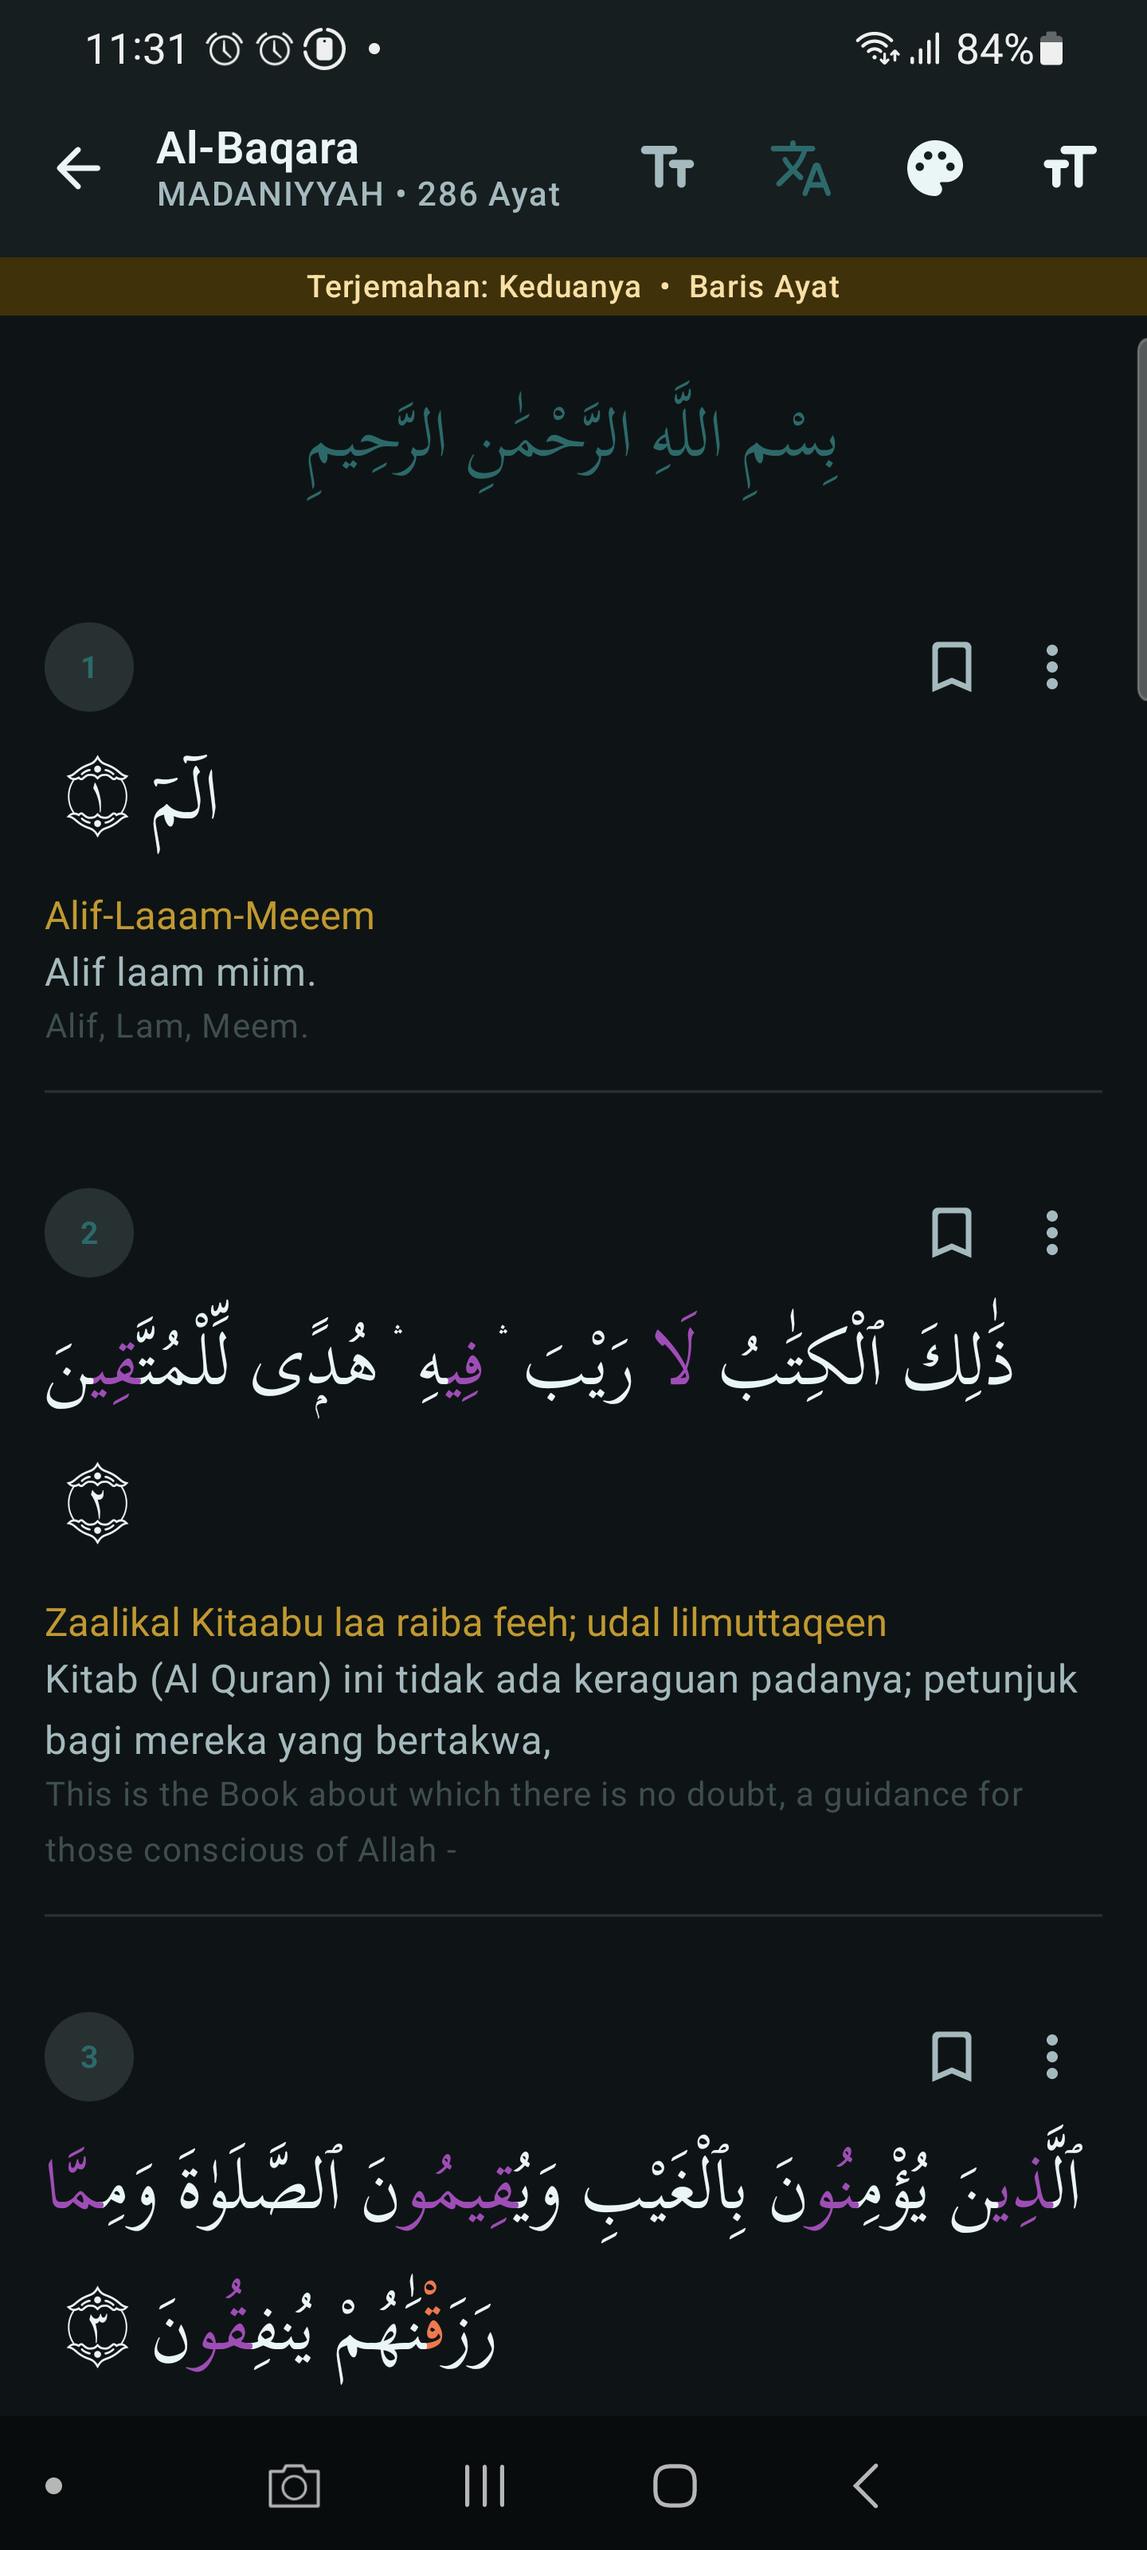
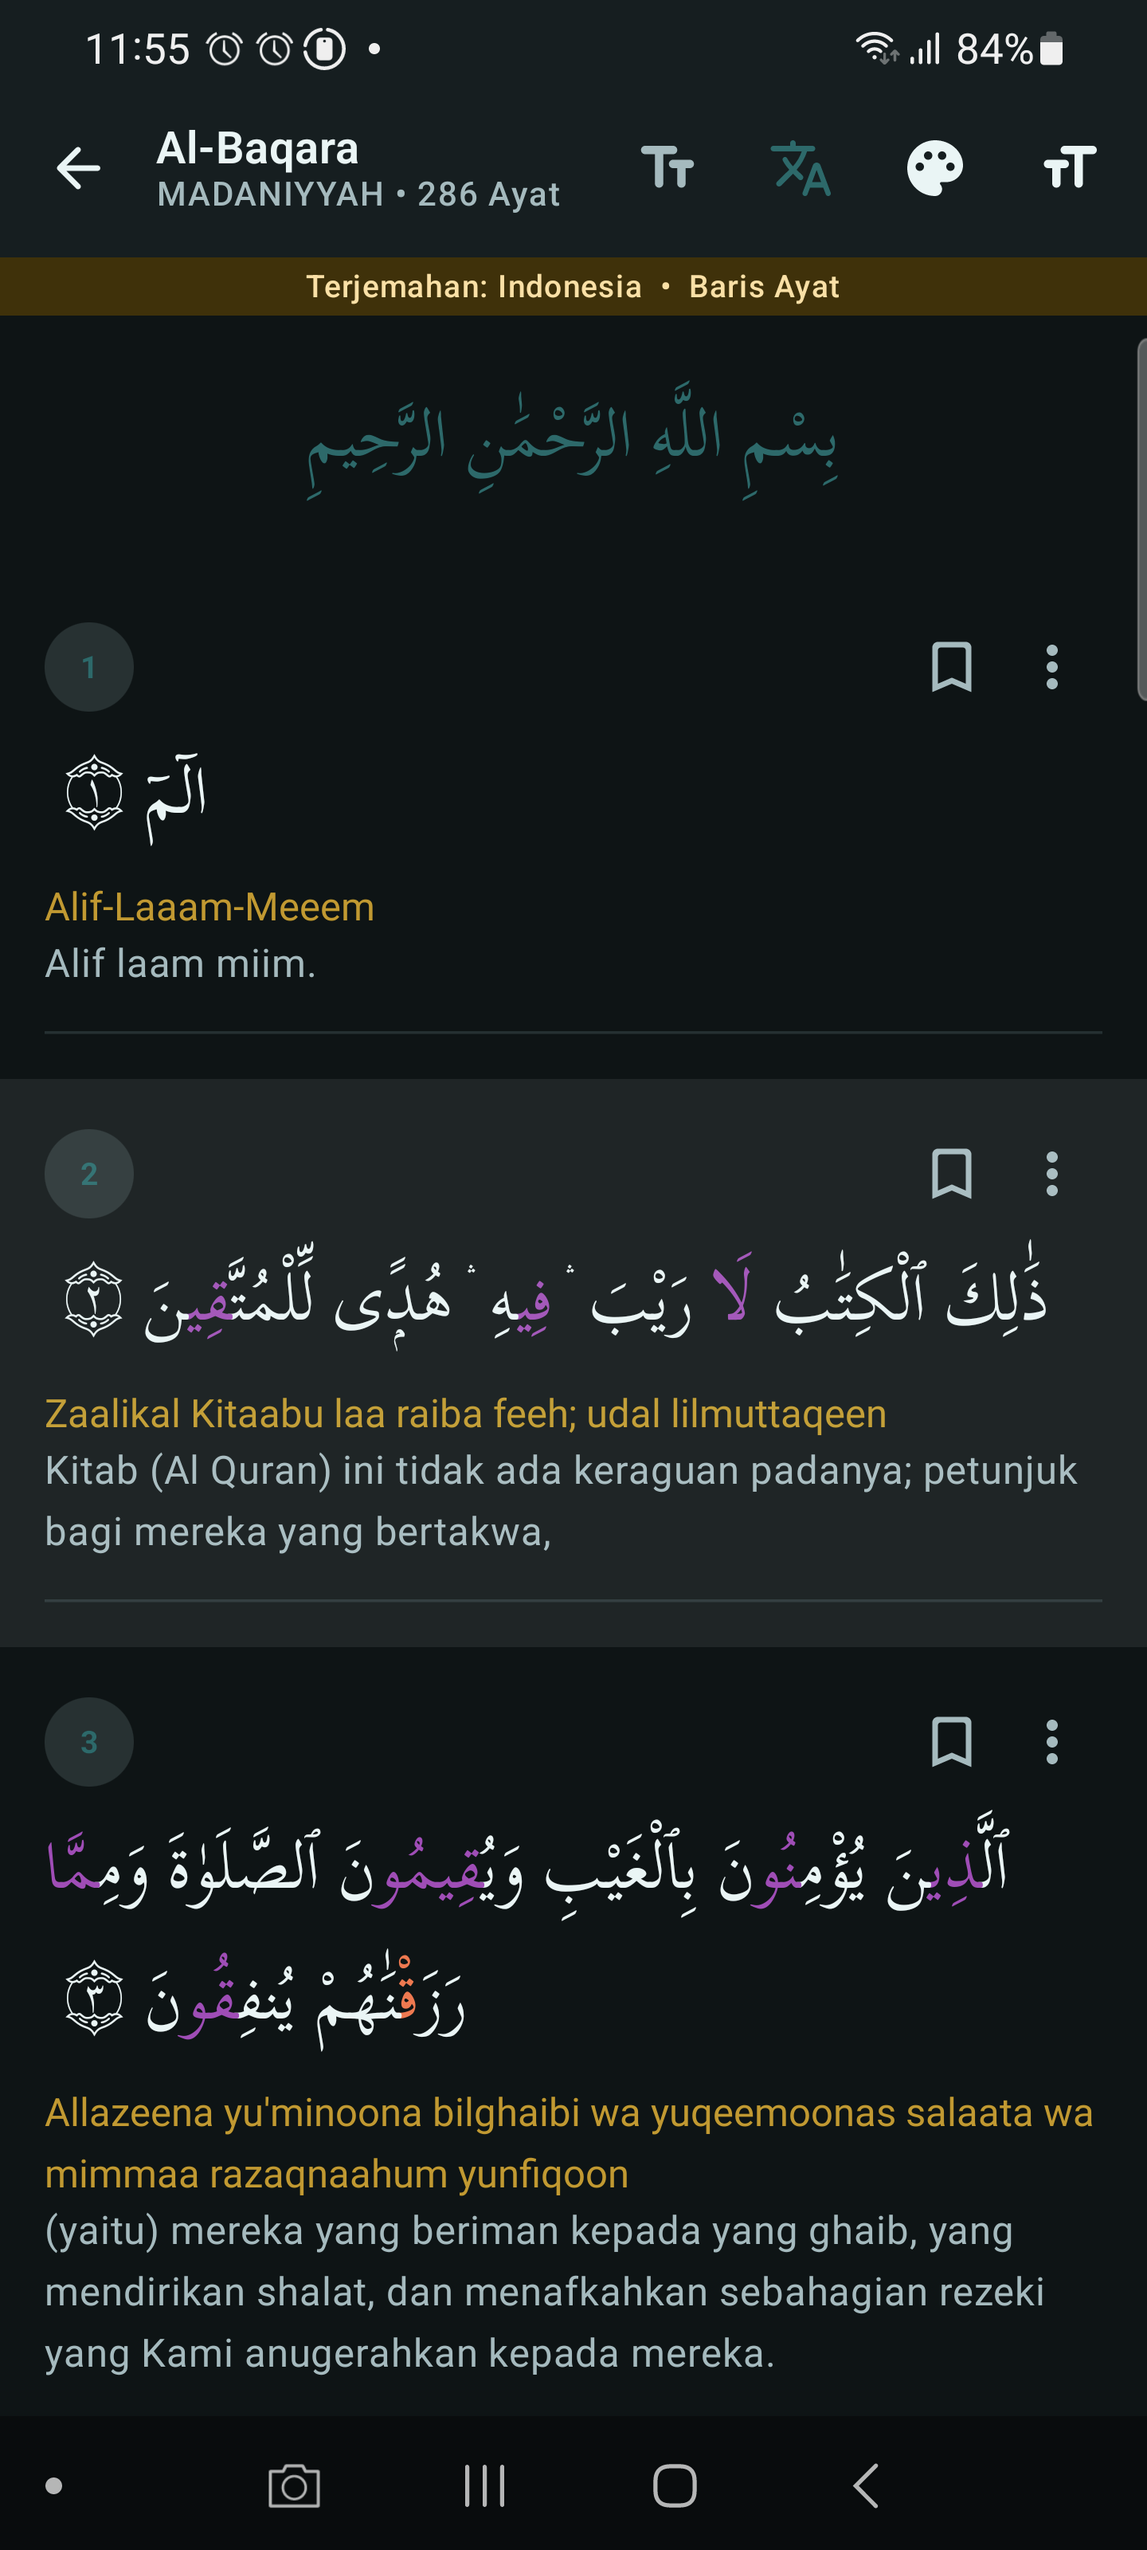
feat(tahsin): add audio pronunciation and ayah reader link to lesson detail, update surah mapper and visual documentation

diff --git a/app/src/main/java/com/quranplus/app/features/tahsin/presentation/LessonDetailScreen.kt b/app/src/main/java/com/quranplus/app/features/tahsin/presentation/LessonDetailScreen.kt
@@ -1,6 +1,8 @@
 package com.quranplus.app.features.tahsin.presentation
 
+import android.widget.Toast
 import androidx.compose.foundation.background
+import androidx.compose.foundation.layout.Arrangement
 import androidx.compose.foundation.layout.Box
 import androidx.compose.foundation.layout.Column
 import androidx.compose.foundation.layout.Row
@@ -15,13 +17,19 @@ import androidx.compose.foundation.rememberScrollState
 import androidx.compose.foundation.shape.CircleShape
 import androidx.compose.foundation.verticalScroll
 import androidx.compose.material.icons.Icons
+import androidx.compose.material.icons.automirrored.rounded.MenuBook
+import androidx.compose.material.icons.automirrored.rounded.VolumeUp
 import androidx.compose.material.icons.rounded.Check
 import androidx.compose.material.icons.rounded.CheckCircle
+import androidx.compose.material.icons.rounded.Pause
+import androidx.compose.material.icons.rounded.PlayArrow
 import androidx.compose.material3.Card
 import androidx.compose.material3.CardDefaults
 import androidx.compose.material3.CircularProgressIndicator
+import androidx.compose.material3.FilledTonalButton
 import androidx.compose.material3.Icon
 import androidx.compose.material3.MaterialTheme
+import androidx.compose.material3.OutlinedButton
 import androidx.compose.material3.Scaffold
 import androidx.compose.material3.Text
 import androidx.compose.runtime.Composable
@@ -31,25 +39,33 @@ import androidx.compose.runtime.getValue
 import androidx.compose.ui.Alignment
 import androidx.compose.ui.Modifier
 import androidx.compose.ui.draw.clip
+import androidx.compose.ui.hapticfeedback.HapticFeedbackType
+import androidx.compose.ui.platform.LocalContext
+import androidx.compose.ui.platform.LocalHapticFeedback
 import androidx.compose.ui.text.font.FontWeight
 import androidx.compose.ui.text.style.TextAlign
 import androidx.compose.ui.unit.dp
 import androidx.compose.ui.unit.sp
-import androidx.compose.ui.hapticfeedback.HapticFeedbackType
-import androidx.compose.ui.platform.LocalHapticFeedback
+import com.quranplus.app.core.audio.AudioPlayerManager
+import com.quranplus.app.core.audio.PlaybackState
 import com.quranplus.app.core.ui.components.AppPrimaryButton
 import com.quranplus.app.core.ui.components.AppSecondaryButton
 import com.quranplus.app.core.ui.components.AppTopBar
 import com.quranplus.app.core.ui.theme.Spacing
 import com.quranplus.app.core.ui.theme.getQuranArabicStyle
+import com.quranplus.app.core.utils.SurahMapper
 
 @Composable
 fun LessonDetailScreen(
     lessonId: Int,
     viewModel: TahsinViewModel,
+    audioPlayerManager: AudioPlayerManager? = null,
+    onNavigateToAyah: ((Int, Int) -> Unit)? = null,
     onBackClick: () -> Unit
 ) {
     val lesson by viewModel.selectedLesson.collectAsState()
+    val context = LocalContext.current
+    val playbackState = audioPlayerManager?.playbackState?.collectAsState()?.value
 
     LaunchedEffect(lessonId) {
         viewModel.loadLessonDetail(lessonId)
@@ -69,6 +85,8 @@ fun LessonDetailScreen(
             }
         } else {
             val item = lesson!!
+            val parsedRef = SurahMapper.parseAyahReference(item.exampleAyahRef)
+
             Column(
                 modifier = Modifier
                     .fillMaxSize()
@@ -176,12 +194,24 @@ fun LessonDetailScreen(
                         shape = MaterialTheme.shapes.medium
                     ) {
                         Column(modifier = Modifier.padding(Spacing.md)) {
-                            Text(
-                                text = "Contoh Ayat Al-Qur'an (${item.exampleAyahRef}):",
-                                style = MaterialTheme.typography.titleSmall,
-                                fontWeight = FontWeight.Bold,
-                                color = MaterialTheme.colorScheme.secondary
-                            )
+                            Row(
+                                modifier = Modifier.fillMaxWidth(),
+                                horizontalArrangement = Arrangement.SpaceBetween,
+                                verticalAlignment = Alignment.CenterVertically
+                            ) {
+                                Text(
+                                    text = "Contoh Ayat Al-Qur'an:",
+                                    style = MaterialTheme.typography.titleSmall,
+                                    fontWeight = FontWeight.Bold,
+                                    color = MaterialTheme.colorScheme.secondary
+                                )
+                                Text(
+                                    text = item.exampleAyahRef.substringBefore("(").trim(),
+                                    style = MaterialTheme.typography.labelSmall,
+                                    fontWeight = FontWeight.SemiBold,
+                                    color = MaterialTheme.colorScheme.primary
+                                )
+                            }
                             Spacer(modifier = Modifier.height(Spacing.sm))
                             Text(
                                 text = item.exampleAyahText,
@@ -189,6 +219,60 @@ fun LessonDetailScreen(
                                 modifier = Modifier.fillMaxWidth(),
                                 textAlign = TextAlign.End
                             )
+
+                            // Interactive Audio & Navigation Bar for Example Ayah
+                            if (parsedRef != null && audioPlayerManager != null) {
+                                val (surahRef, ayahNum) = parsedRef
+                                val isCurrentlyPlaying = playbackState is PlaybackState.Playing &&
+                                        playbackState.surahNumber == surahRef.number &&
+                                        playbackState.ayahNumber == ayahNum
+
+                                Spacer(modifier = Modifier.height(Spacing.md))
+                                Row(
+                                    modifier = Modifier.fillMaxWidth(),
+                                    horizontalArrangement = Arrangement.spacedBy(Spacing.sm)
+                                ) {
+                                    FilledTonalButton(
+                                        onClick = {
+                                            if (isCurrentlyPlaying) {
+                                                audioPlayerManager.togglePlayPause()
+                                            } else {
+                                                audioPlayerManager.playAyah(
+                                                    surahNumber = surahRef.number,
+                                                    surahName = surahRef.latinName,
+                                                    ayahNumber = ayahNum,
+                                                    totalAyahsInSurah = surahRef.ayahCount
+                                                )
+                                                Toast.makeText(context, "Memutar QS. ${surahRef.latinName}:$ayahNum", Toast.LENGTH_SHORT).show()
+                                            }
+                                        },
+                                        modifier = Modifier.weight(1f)
+                                    ) {
+                                        Icon(
+                                            imageVector = if (isCurrentlyPlaying) Icons.Rounded.Pause else Icons.AutoMirrored.Rounded.VolumeUp,
+                                            contentDescription = null,
+                                            modifier = Modifier.size(18.dp)
+                                        )
+                                        Spacer(modifier = Modifier.width(Spacing.xs))
+                                        Text(if (isCurrentlyPlaying) "Jeda" else "Dengarkan", fontSize = 13.sp)
+                                    }
+
+                                    if (onNavigateToAyah != null) {
+                                        OutlinedButton(
+                                            onClick = { onNavigateToAyah(surahRef.number, ayahNum) },
+                                            modifier = Modifier.weight(1f)
+                                        ) {
+                                            Icon(
+                                                imageVector = Icons.AutoMirrored.Rounded.MenuBook,
+                                                contentDescription = null,
+                                                modifier = Modifier.size(18.dp)
+                                            )
+                                            Spacer(modifier = Modifier.width(Spacing.xs))
+                                            Text("Lihat Surah", fontSize = 13.sp)
+                                        }
+                                    }
+                                }
+                            }
                         }
                     }
                 }

diff --git a/app/src/main/java/com/quranplus/app/core/utils/SurahMapper.kt b/app/src/main/java/com/quranplus/app/core/utils/SurahMapper.kt
@@ -1,0 +1,169 @@
+package com.quranplus.app.core.utils
+
+/**
+ * Surah metadata mapper and lookup helper
+ */
+object SurahMapper {
+
+    data class SurahRef(
+        val number: Int,
+        val latinName: String,
+        val ayahCount: Int
+    )
+
+    private val SURAHS = listOf(
+        SurahRef(1, "Al-Fatihah", 7),
+        SurahRef(2, "Al-Baqarah", 286),
+        SurahRef(3, "Ali 'Imran", 200),
+        SurahRef(4, "An-Nisa'", 176),
+        SurahRef(5, "Al-Ma'idah", 120),
+        SurahRef(6, "Al-An'am", 165),
+        SurahRef(7, "Al-A'raf", 206),
+        SurahRef(8, "Al-Anfal", 75),
+        SurahRef(9, "At-Taubah", 129),
+        SurahRef(10, "Yunus", 109),
+        SurahRef(11, "Hud", 123),
+        SurahRef(12, "Yusuf", 111),
+        SurahRef(13, "Ar-Ra'd", 43),
+        SurahRef(14, "Ibrahim", 52),
+        SurahRef(15, "Al-Hijr", 99),
+        SurahRef(16, "An-Nahl", 128),
+        SurahRef(17, "Al-Isra'", 111),
+        SurahRef(18, "Al-Kahf", 110),
+        SurahRef(19, "Maryam", 98),
+        SurahRef(20, "Taha", 135),
+        SurahRef(21, "Al-Anbiya'", 112),
+        SurahRef(22, "Al-Hajj", 78),
+        SurahRef(23, "Al-Mu'minun", 118),
+        SurahRef(24, "An-Nur", 64),
+        SurahRef(25, "Al-Furqan", 77),
+        SurahRef(26, "Asy-Syu'ara'", 227),
+        SurahRef(27, "An-Naml", 93),
+        SurahRef(28, "Al-Qasas", 88),
+        SurahRef(29, "Al-'Ankabut", 69),
+        SurahRef(30, "Ar-Rum", 60),
+        SurahRef(31, "Luqman", 34),
+        SurahRef(32, "As-Sajdah", 30),
+        SurahRef(33, "Al-Ahzab", 73),
+        SurahRef(34, "Saba'", 54),
+        SurahRef(35, "Fatir", 45),
+        SurahRef(36, "Yasin", 83),
+        SurahRef(37, "As-Saffat", 182),
+        SurahRef(38, "Sad", 88),
+        SurahRef(39, "Az-Zumar", 75),
+        SurahRef(40, "Ghafir", 85),
+        SurahRef(41, "Fussilat", 54),
+        SurahRef(42, "Asy-Syura", 53),
+        SurahRef(43, "Az-Zukhruf", 89),
+        SurahRef(44, "Ad-Dukhan", 59),
+        SurahRef(45, "Al-Jasiyah", 37),
+        SurahRef(46, "Al-Ahqaf", 35),
+        SurahRef(47, "Muhammad", 38),
+        SurahRef(48, "Al-Fath", 29),
+        SurahRef(49, "Al-Hujurat", 18),
+        SurahRef(50, "Qaf", 45),
+        SurahRef(51, "Az-Zariyat", 60),
+        SurahRef(52, "At-Tur", 49),
+        SurahRef(53, "An-Najm", 62),
+        SurahRef(54, "Al-Qamar", 55),
+        SurahRef(55, "Ar-Rahman", 78),
+        SurahRef(56, "Al-Waqi'ah", 96),
+        SurahRef(57, "Al-Hadid", 29),
+        SurahRef(58, "Al-Mujadilah", 22),
+        SurahRef(59, "Al-Hasyr", 24),
+        SurahRef(60, "Al-Mumtahanah", 13),
+        SurahRef(61, "As-Saff", 14),
+        SurahRef(62, "Al-Jumu'ah", 11),
+        SurahRef(63, "Al-Munafiqun", 11),
+        SurahRef(64, "At-Tagabun", 18),
+        SurahRef(65, "At-Talaq", 12),
+        SurahRef(66, "At-Tahrim", 12),
+        SurahRef(67, "Al-Mulk", 30),
+        SurahRef(68, "Al-Qalam", 52),
+        SurahRef(69, "Al-Haqqah", 52),
+        SurahRef(70, "Al-Ma'arij", 44),
+        SurahRef(71, "Nuh", 28),
+        SurahRef(72, "Al-Jinn", 28),
+        SurahRef(73, "Al-Muzzammil", 20),
+        SurahRef(74, "Al-Muddassir", 56),
+        SurahRef(75, "Al-Qiyamah", 40),
+        SurahRef(76, "Al-Insan", 31),
+        SurahRef(77, "Al-Mursalat", 50),
+        SurahRef(78, "An-Naba'", 40),
+        SurahRef(79, "An-Nazi'at", 46),
+        SurahRef(80, "'Abasa", 42),
+        SurahRef(81, "At-Takwir", 29),
+        SurahRef(82, "Al-Infitar", 19),
+        SurahRef(83, "Al-Mutaffifin", 36),
+        SurahRef(84, "Al-Insyiqaq", 25),
+        SurahRef(85, "Al-Buruj", 22),
+        SurahRef(86, "At-Tariq", 17),
+        SurahRef(87, "Al-A'la", 19),
+        SurahRef(88, "Al-Ghasyiyah", 26),
+        SurahRef(89, "Al-Fajr", 30),
+        SurahRef(90, "Al-Balad", 20),
+        SurahRef(91, "Asy-Syams", 15),
+        SurahRef(92, "Al-Lail", 21),
+        SurahRef(93, "Ad-Duha", 11),
+        SurahRef(94, "Asy-Syarh", 8),
+        SurahRef(95, "At-Tin", 8),
+        SurahRef(96, "Al-'Alaq", 19),
+        SurahRef(97, "Al-Qadr", 5),
+        SurahRef(98, "Al-Bayyinah", 8),
+        SurahRef(99, "Az-Zalzalah", 8),
+        SurahRef(100, "Al-'Adiyat", 11),
+        SurahRef(101, "Al-Qari'ah", 11),
+        SurahRef(102, "At-Takasur", 8),
+        SurahRef(103, "Al-'Asr", 3),
+        SurahRef(104, "Al-Humazah", 9),
+        SurahRef(105, "Al-Fil", 5),
+        SurahRef(106, "Quraisy", 4),
+        SurahRef(107, "Al-Ma'un", 7),
+        SurahRef(108, "Al-Kausar", 3),
+        SurahRef(109, "Al-Kafirun", 6),
+        SurahRef(110, "An-Nasr", 3),
+        SurahRef(111, "Al-Lahab", 5),
+        SurahRef(112, "Al-Ikhlas", 4),
+        SurahRef(113, "Al-Falaq", 5),
+        SurahRef(114, "An-Nas", 6)
+    )
+
+    private fun normalize(str: String): String {
+        return str.lowercase()
+            .replace(Regex("""[^a-z0-9]"""), "")
+    }
+
+    fun getSurah(number: Int): SurahRef? {
+        return SURAHS.getOrNull(number - 1)
+    }
+
+    fun findSurah(query: String): SurahRef? {
+        val norm = normalize(query)
+        if (norm.isEmpty()) return null
+
+        // Exact normalized match
+        SURAHS.find { normalize(it.latinName) == norm }?.let { return it }
+
+        // Match without "al" or "an" prefix
+        val normWithoutPrefix = norm.removePrefix("al").removePrefix("an").removePrefix("as").removePrefix("at").removePrefix("az").removePrefix("ar")
+        SURAHS.find {
+            val surahNorm = normalize(it.latinName).removePrefix("al").removePrefix("an").removePrefix("as").removePrefix("at").removePrefix("az").removePrefix("ar")
+            surahNorm == normWithoutPrefix
+        }?.let { return it }
+
+        // Partial match
+        return SURAHS.find { normalize(it.latinName).contains(norm) || norm.contains(normalize(it.latinName)) }
+    }
+
+    /**
+     * Parses reference string e.g. "QS. Al-Ikhlas: 1" or "QS. Hud: 49 (...)"
+     */
+    fun parseAyahReference(ref: String): Pair<SurahRef, Int>? {
+        val clean = ref.substringBefore("(").trim()
+        val match = Regex("""QS\.?\s+([^:]+):\s*(\d+)""").find(clean) ?: return null
+        val surahQuery = match.groupValues[1].trim()
+        val ayahNumber = match.groupValues[2].toIntOrNull() ?: 1
+        val surah = findSurah(surahQuery) ?: return null
+        return Pair(surah, ayahNumber)
+    }
+}

diff --git a/app/src/main/java/com/quranplus/app/MainActivity.kt b/app/src/main/java/com/quranplus/app/MainActivity.kt
@@ -222,6 +222,10 @@ fun AppNavHost(
             LessonDetailScreen(
                 lessonId = lessonId,
                 viewModel = tahsinViewModel,
+                audioPlayerManager = audioPlayerManager,
+                onNavigateToAyah = { surahNumber, ayahNumber ->
+                    navController.navigate("quran_reader/$surahNumber?initialAyah=$ayahNumber")
+                },
                 onBackClick = { navController.popBackStack() }
             )
         }

diff --git a/README.md b/README.md
@@ -27,9 +27,9 @@
 |:---:|:---:|:---:|
 | ![Gharib](docs/screenshot_gharib_encyclopedia.png) | ![Isymam](docs/screenshot_gharib_isymam.png) | ![Waqaf Guide](docs/screenshot_waqaf_guide.png) |
 
-| Offline Murottal Manager | Settings & Tilawah Preferences | On-Device AI ModelGate |
+| Offline Murottal Manager | Settings & Tilawah Preferences | Tahsin Lesson & Audio Pronunciation |
 |:---:|:---:|:---:|
-| ![Audio Manager](docs/screenshot_audio_manager.png) | ![Settings](docs/screenshot_settings.png) | ![AI ModelGate](docs/preview_chat.png) |
+| ![Audio Manager](docs/screenshot_audio_manager.png) | ![Settings](docs/screenshot_settings.png) | ![Tahsin Lesson Detail](docs/screenshot_lesson_detail.png) |
 
 ---
 
